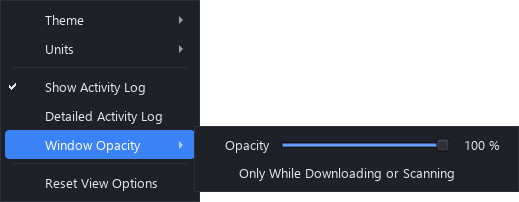
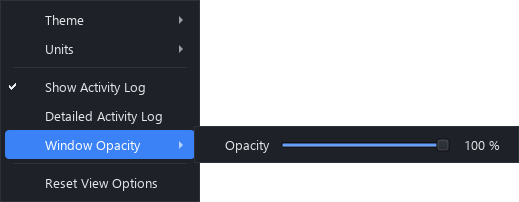
Window Opacity is just the Opacity slider
Removes "Only While Downloading or Scanning": the slider's level always applies. Settings files that still have the old option load as before (the key is ignored).

Changed region(s): [[0.3699, 0.802, 1.0, 0.9505]]

diff --git a/rover_scraper/gui.py b/rover_scraper/gui.py
@@ -1436,7 +1436,6 @@ class MainWindow(QMainWindow):
         if mode != "idle":
             self.cancel = threading.Event()
         self._validate()
-        self._apply_opacity()
 
     # ---- background tasks --------------------------------------------------------------------------------
 
@@ -1710,7 +1709,7 @@ class MainWindow(QMainWindow):
         return menu
 
     def _build_opacity_menu(self, menu: QMenu) -> None:
-        """View > Window Opacity: one slider (the window changes as it moves) and one option."""
+        """View > Window Opacity: one slider. The window changes as it moves."""
         row = QWidget()
         row.setObjectName("menuRow")
         h = QHBoxLayout(row)
@@ -1731,47 +1730,18 @@ class MainWindow(QMainWindow):
         slider_act = QWidgetAction(menu)
         slider_act.setDefaultWidget(row)
         menu.addAction(slider_act)
-        self.act_opacity_busy = menu.addAction("Only While Downloading or Scanning")
-        self.act_opacity_busy.setCheckable(True)
-        self.act_opacity_busy.setChecked(self.settings.opacity_only_while_busy)
-        self.act_opacity_busy.toggled.connect(self._set_opacity_busy)
-        # After the slider moves, its level shows for a moment even when it only applies while busy.
-        self.previewing_opacity = False
-        self.opacity_preview_timer = QTimer(self, singleShot=True, interval=1200)
-        self.opacity_preview_timer.timeout.connect(self._end_opacity_preview)
-        self.opacity_slider.sliderReleased.connect(self.opacity_preview_timer.start)
         self.opacity_slider.valueChanged.connect(self._opacity_moved)
         self._apply_opacity()
 
     def _opacity_moved(self, value: int) -> None:
         self.settings.window_opacity = value
         self.opacity_value.setText(f"{value} %")
-        s = self.opacity_slider
-        if s.isSliderDown() or s.hasFocus() or s.underMouse():       # moved by hand, not by Reset View Options
-            self.previewing_opacity = True
-            self.opacity_preview_timer.start()
-        self._apply_opacity()
-        self._save_settings()
-
-    def _end_opacity_preview(self) -> None:
-        if self.opacity_slider.isSliderDown():          # still held: keep showing it until released
-            return
-        self.previewing_opacity = False
-        self._apply_opacity()
-
-    def _set_opacity_busy(self, on: bool) -> None:
-        self.settings.opacity_only_while_busy = on
         self._apply_opacity()
         self._save_settings()
 
     def _apply_opacity(self) -> None:
-        """The window's opacity from View > Window Opacity. With "Only While Downloading or Scanning" on, the
-        window is solid unless a download or scan is running (or the slider is being moved, to show the level)."""
-        if not hasattr(self, "opacity_slider"):
-            return
-        busy = self.mode in ("download", "scan", "full")
-        solid = self.settings.opacity_only_while_busy and not busy and not self.previewing_opacity
-        level = 1.0 if solid else self.settings.window_opacity / 100
+        """The window's opacity from View > Window Opacity."""
+        level = self.settings.window_opacity / 100
         if abs(self.windowOpacity() - level) > 0.005:
             self.setWindowOpacity(level)
 
@@ -1784,7 +1754,7 @@ class MainWindow(QMainWindow):
 
     # View menu choices, and the download options in the left column (File > Settings > Reset Settings to Defaults).
     VIEW_FIELDS = ("data_unit", "speed_unit", "speed_window", "theme", "show_log", "collapsed_cards",
-                   "window_opacity", "opacity_only_while_busy")
+                   "window_opacity")
     OPTION_FIELDS = ("rovers", "excluded_cameras", "check_existing", "sol_from", "sol_to", "workers", "limit_on",
                      "limit_files", "limit_period")
 
@@ -1802,9 +1772,6 @@ class MainWindow(QMainWindow):
         self._set_log_visible(self.settings.show_log)
         self._apply_folded_cards()
         self.opacity_slider.setValue(self.settings.window_opacity)     # also updates the value beside it
-        self.act_opacity_busy.blockSignals(True)
-        self.act_opacity_busy.setChecked(self.settings.opacity_only_while_busy)
-        self.act_opacity_busy.blockSignals(False)
         self._apply_opacity()
         self._apply_theme()
         self._update_counters()

diff --git a/rover_scraper/settings.py b/rover_scraper/settings.py
@@ -37,7 +37,6 @@ class Settings:
     collapsed_cards: list[str] = field(default_factory=list)   # titles of cards folded to their title bar
     verbose_log: bool = False            # View > Detailed Activity Log
     window_opacity: int = 100            # percent (View > Window Opacity)
-    opacity_only_while_busy: bool = False   # apply it only while downloading or scanning; solid otherwise
 
     @classmethod
     def load(cls, path: str) -> "Settings":

diff --git a/README.md b/README.md
@@ -127,10 +127,9 @@ theme you had.
 
 ### Window opacity
 
-![View > Window Opacity: an Opacity slider at 100 %, and Only While Downloading or Scanning](.github/readme/menu_opacity.png)
+![View > Window Opacity: an Opacity slider at 100 %](.github/readme/menu_opacity.png)
 
-*View > Window Opacity* makes the window see-through. The window changes as the slider moves (30–100 %). With
-*Only While Downloading or Scanning* ticked, the window stays solid the rest of the time.
+*View > Window Opacity* makes the window see-through. The window changes as the slider moves (30–100 %).
 
 <details>
 <summary><b>Every menu item</b></summary>
